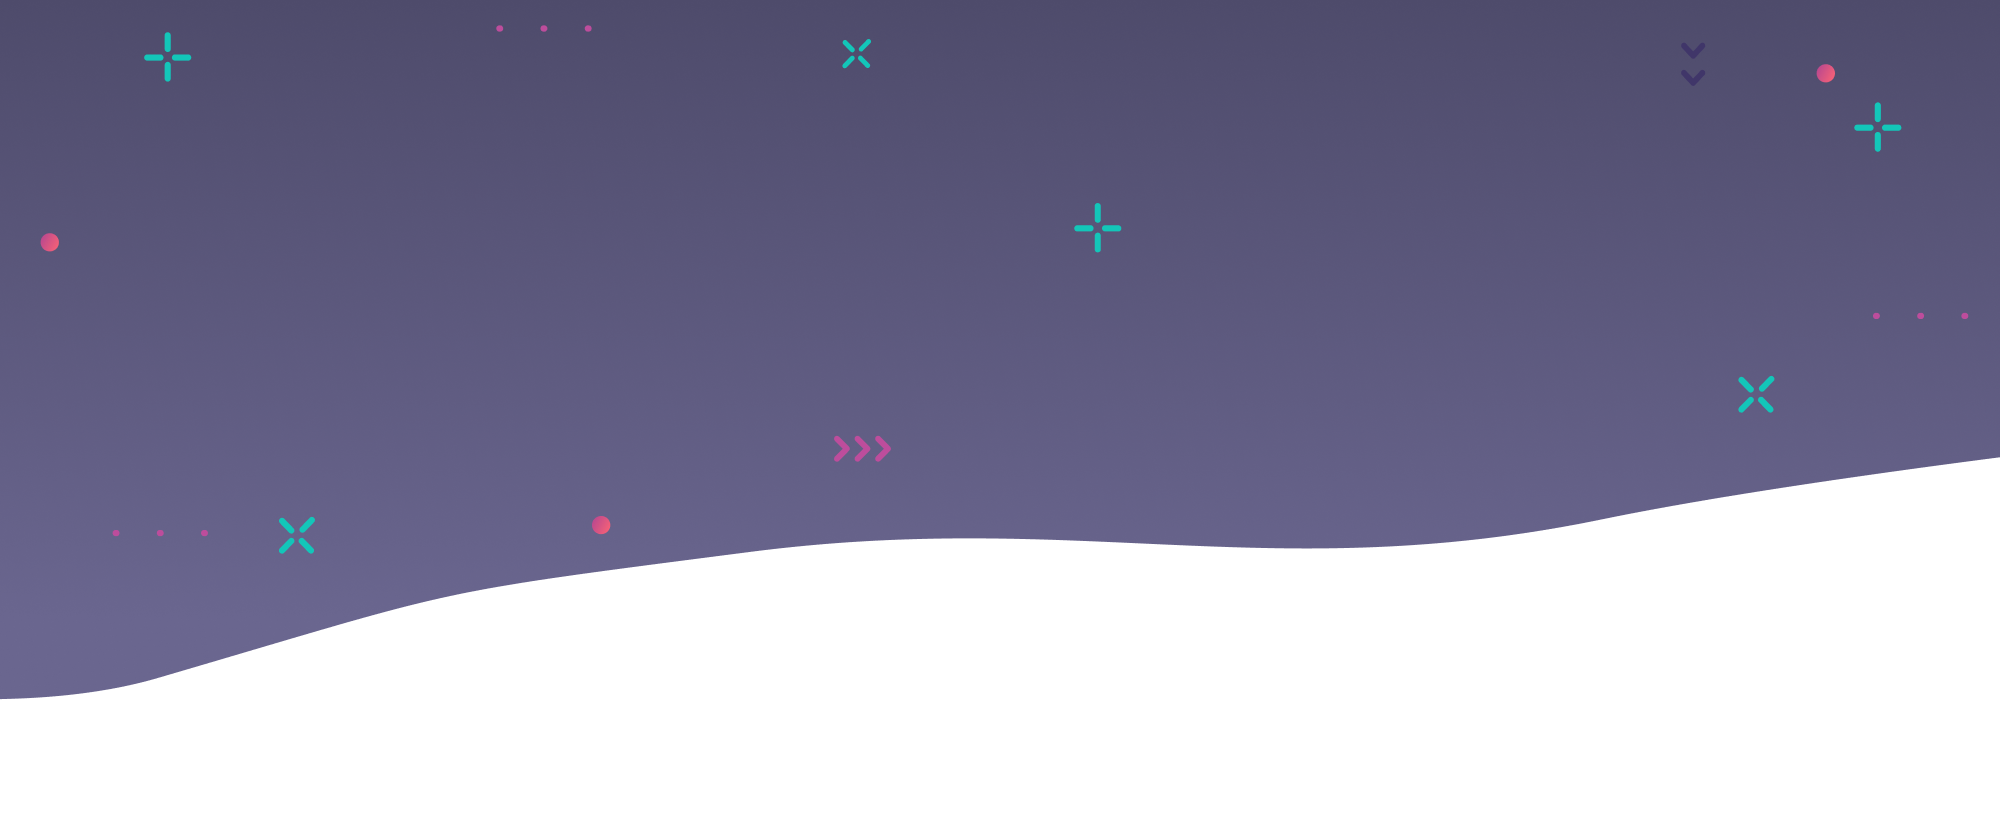
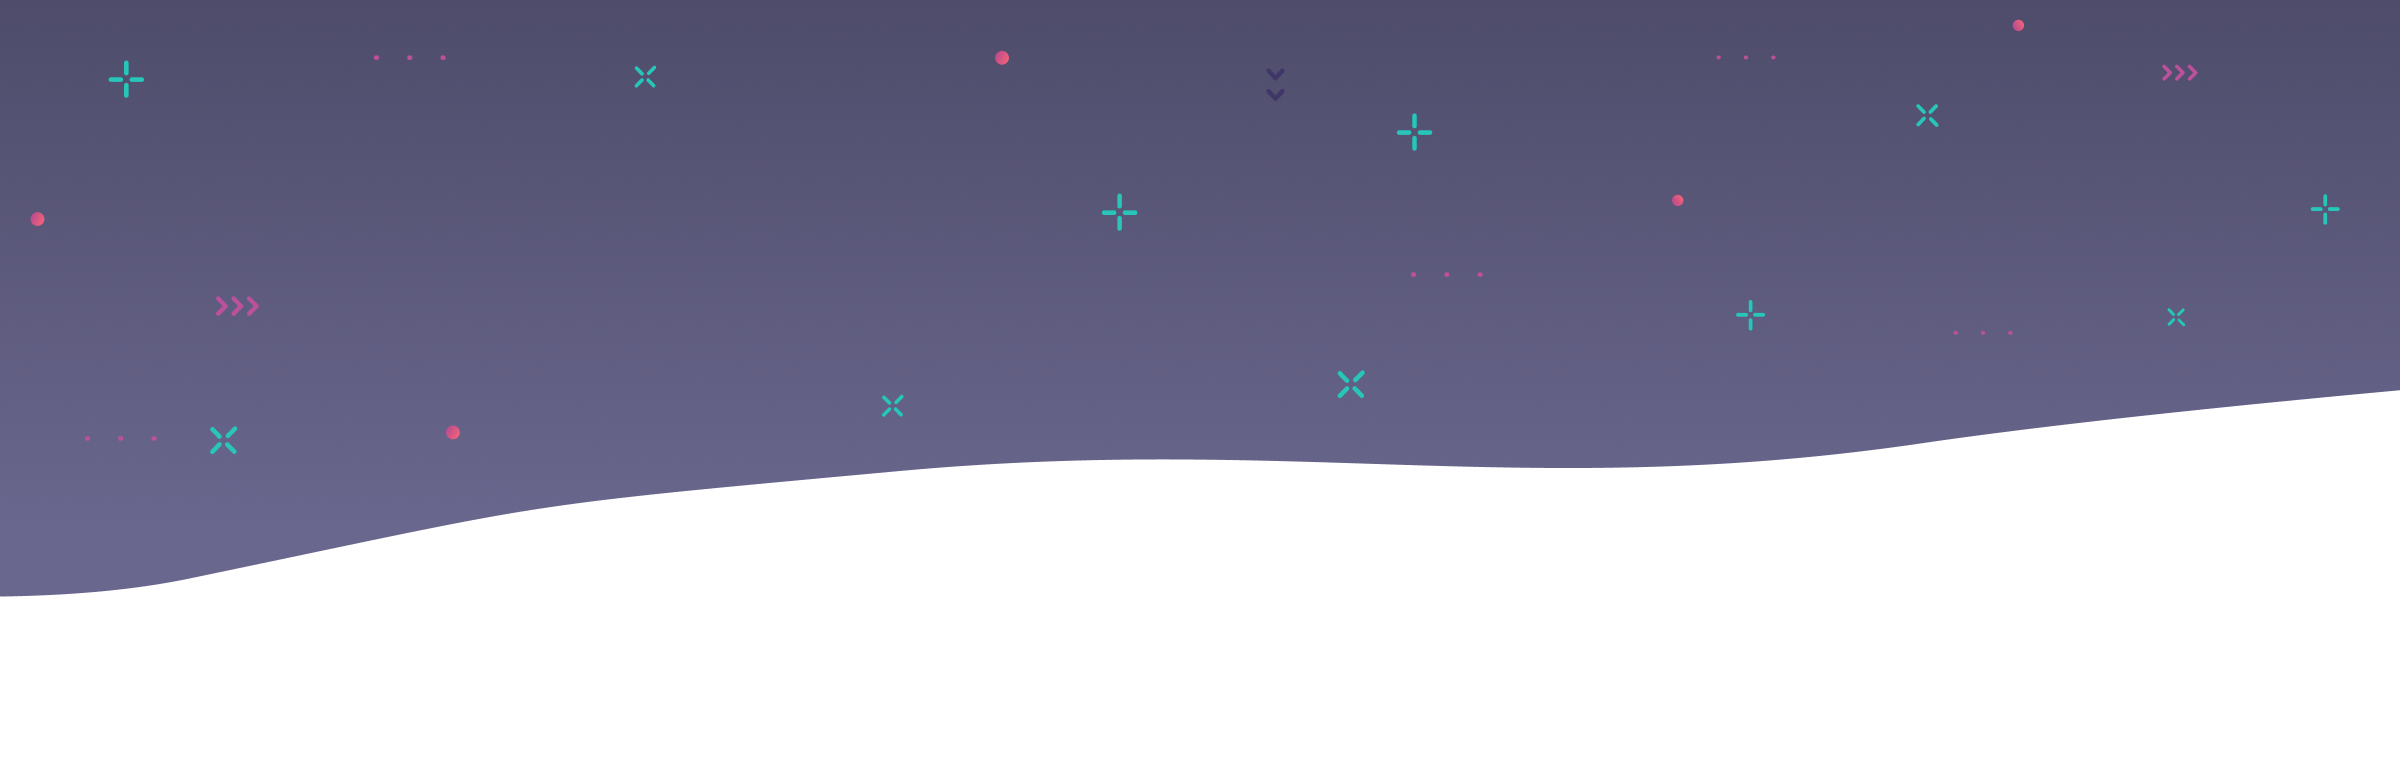
background first pass

diff --git a/src/components/Home/SectionOne.js b/src/components/Home/SectionOne.js
@@ -3,6 +3,9 @@ import styled, { css } from 'styled-components';
 
 import ServiceProviders from '../../images/sectionOne.svg';
 
+// import background from '../../images/homepageCurves/sectionOne.png';
+import background from '../../images/homepageCurves/blobOne.png';
+
 import { breakpoints as bp } from '../../styling/index';
 
 const Container = styled.div`
@@ -13,6 +16,7 @@ const Container = styled.div`
    height: 300px;
    padding-top: 100px;
    text-align: center;
+   z-index: 0;
 
    ${bp.sm`
       text-align: left;
@@ -29,6 +33,20 @@ const Container = styled.div`
       font-size: 16px;
    }
 `;
+
+const Background = styled.div`
+background-color: rgba(255,255,255,0.0);
+    top: 752px;
+    height: 756px;
+    width: 916px;
+    position: absolute;
+    margin: 0;
+    left: calc(0.01% - 406px);
+    -ms-transform: rotate(3deg);
+    -webkit-transform: rotate(3deg);
+    transform: rotate(3deg);
+    z-index: -1;
+`
 
 const Content = styled.div`
    display: flex;
@@ -59,6 +77,9 @@ padding-left: ${props => props.left ? '10px' : '0'};
 const SectionOne = () => {
    return (
       <Container>
+         <Background>
+            <img src={background} alt="22seven Service Providers"/>
+         </Background>
          <Content>
             <Column right>
                <img src={ServiceProviders} alt="22seven Service Providers"/>

diff --git a/src/components/Home/SectionThree.js b/src/components/Home/SectionThree.js
@@ -2,6 +2,7 @@ import React from 'react';
 import styled, { css } from 'styled-components';
 
 import temp from '../../images/sectionThree.svg';
+import background from '../../images/homepageCurves/blobFour.png';
 import { breakpoints as bp } from '../../styling/index';
 
 const Container = styled.div`
@@ -12,6 +13,8 @@ const Container = styled.div`
    min-height: 300px;
    /* margin-top: 100px; */
    text-align: center;
+   z-index: 1;
+
 
 ${bp.sm`
    text-align: left;
@@ -41,6 +44,21 @@ const Content = styled.div`
    `}
 `
 
+const Background = styled.div`
+   background-color: rgba(255,255,255,0.0);
+    top: 1637px;
+    height: 813px;
+    width: 1116px;
+    position: absolute;
+    margin: 0;
+    left: calc(0.00% - 634px);
+    -ms-transform: rotate(0deg);
+    -webkit-transform: rotate(0deg);
+    transform: rotate(0deg);
+    opacity: 0.72;
+    z-index: -1;
+`
+
 const Column = styled.div`
 align-self:center;
 padding-right: ${props => props.right ? '50px' : '0'};
@@ -50,6 +68,9 @@ padding-left: ${props => props.left ? '10px' : '0'};
 const SectionThree = () => {
    return (
       <Container>
+         <Background>
+            <img src={background} alt="22seven Service Providers"/>
+         </Background>
          <Content>
          <Column right>
             <img src={temp} alt="Nudges"/>

diff --git a/src/components/Home/SectionTwo.js b/src/components/Home/SectionTwo.js
@@ -2,6 +2,8 @@ import React from 'react';
 import styled, { css } from 'styled-components';
 
 import personalisedBudget from '../../images/public-section-2---right.svg';
+
+import background from '../../images/homepageCurves/blobTwo.png';
 import { breakpoints as bp } from '../../styling/index';
 
 const Container = styled.div`
@@ -10,8 +12,7 @@ const Container = styled.div`
    font-family: 'CircularStd';
    color: #4e4b6b;
    min-height: 300px;
-   margin-top: 100px;
-   text-align: center;
+   z-index: 1;   
 
 
 
@@ -46,6 +47,17 @@ const Content = styled.div`
    `}
 `
 
+const Background = styled.div`
+background-color: rgba(255,255,255,0.0);
+    right: calc(0.01% - 491px);
+    top: 1037px;
+    height: 1010px;
+    width: 818px;
+    position: absolute;
+    margin: 0;
+    z-index: -1;
+`
+
 const Column = styled.div`
 align-self:center;
 padding-right: ${props => props.right ? '50px' : '0'};
@@ -60,6 +72,9 @@ ${bp.sm(css`
 const SectionTwo = () => {
    return (
       <Container>
+         <Background>
+            <img src={background} alt="22seven Service Providers"/>
+         </Background>
          <Content>
             <Column>
                <h2>Get a personalised budget,<br/>automatically.</h2>

diff --git a/src/components/Home/Privacy.js b/src/components/Home/Privacy.js
@@ -5,6 +5,7 @@ import umbrella from '../../images/umbrella.svg';
 import oldmutual from '../../images/oldmutual.svg';
 import lock from '../../images/lock.svg';
 
+import background from '../../images/homepageCurves/blobFive.png';
 import { breakpoints as bp } from '../../styling/index';
 
 const Container = styled.div`
@@ -13,6 +14,7 @@ const Container = styled.div`
    font-family: 'CircularStd';
    color: #4e4b6b;
    text-align: center;
+   z-index: 1;
 
    ${bp.sm`
    margin-top: 190px;
@@ -103,9 +105,26 @@ const SignUpBtn = styled.a`
    }
 `
 
+const Background = styled.div`
+background-color: rgba(255,255,255,0.0);
+    top: 3368px;
+    height: 531px;
+    width: 1771px;
+    position: absolute;
+    margin: 0;
+    left: calc(-2.60% - 259px);
+    -ms-transform: rotate(0deg);
+    -webkit-transform: rotate(0deg);
+    transform: rotate(0deg);
+    z-index: -1;
+`
+
 const Privacy = () => {
    return (
    <Container>
+         <Background>
+            <img src={background} alt="22seven Service Providers"/>
+         </Background>
       <Content>
             <Lock src={lock} alt="lock" />
             <h2>Your information is secure. And it belongs to you.</h2>

diff --git a/src/components/Home/Svens.js b/src/components/Home/Svens.js
@@ -4,6 +4,7 @@ import svens from '../../images/svens.png';
 
 import email from '../../images/email.svg'
 import phone from '../../images/phone.svg'
+import background from '../../images/homepageCurves/blobSix.svg';
 import { breakpoints as bp } from '../../styling/index';
 
 const Container = styled.div`
@@ -16,6 +17,7 @@ const Container = styled.div`
    font-weight: 300;
    text-align: center;
    padding-top:100px;
+   z-index: 1;
 
 `
 const Content = styled.div`
@@ -60,9 +62,23 @@ a {
 }
 `
 
+const Background = styled.div`
+    top: 4089px;
+    height: 1030px;
+    width: 2399px;
+    position: absolute;
+    margin: 0;
+    left: calc(0.01% - 750px);
+    transform: rotate(0deg);
+    z-index: -1;
+`
+
 const Svens = () => {
    return (
       <Container>
+         <Background>
+            <img src={background} alt="22seven Service Providers"/>
+         </Background>
          <Content>
             <SvenTeam src={svens} alt="Svens"/>
             <h2>Get really good support from real, live people.</h2>

diff --git a/src/components/Home/SectionFour.js b/src/components/Home/SectionFour.js
@@ -3,7 +3,9 @@ import styled, { css } from 'styled-components';
 import InvestPromo from './InvestPromo';
 
 import personalisedBudget from '../../images/public-section-2---right.svg';
+
 import { breakpoints as bp } from '../../styling/index';
+
 
 const Container = styled.div`
    display: flex;
@@ -12,8 +14,8 @@ const Container = styled.div`
    text-align: right;
    color: #4e4b6b;
    min-height: 300px;
-   /* padding-top: 100px; */
    text-align: center;
+   z-index: 1;   
 
 ${bp.sm`
    text-align: right;
@@ -44,6 +46,8 @@ const Content = styled.div`
    
 `
 
+
+
 const Column = styled.div`
 align-self:center;
 padding-right: ${props => props.right ? '50px' : '0'};
@@ -68,10 +72,9 @@ const SectionFour = () => {
             <img src={personalisedBudget} alt="" />
             </Column>
          </Content>
-       
       </Container> 
         <InvestPromo />
-        </>
+     </>
    )
 }
 

diff --git a/src/components/Home/HowItWorks.js b/src/components/Home/HowItWorks.js
@@ -5,6 +5,7 @@ import { breakpoints as bp } from '../../styling/index';
 
 const Container = styled.div`
    display: flex;
+   position: relative;
    flex-direction: column;
    justify-content: center;
    align-items: center;
@@ -12,7 +13,7 @@ const Container = styled.div`
    color: #4e4b6b;
    text-align: center;
    padding-top:80px;
-
+   z-index: 1;
 
 
 h2 {
@@ -43,6 +44,7 @@ border-radius: 9px;
 padding: 10px 18px 0px 18px;
 margin: 20px 0;
 height: 300px; 
+background: white;
 h3 {
    font-size: 20px;
    margin: 0;

diff --git a/src/components/Home/Testimonials.js b/src/components/Home/Testimonials.js
@@ -21,7 +21,6 @@ const Container = styled.div`
    color: #4e4b6b;
    text-align: center;
    margin-top:50px;
-/* height: 300px; */
 
 ${bp.md`
 margin-top:150px;
@@ -66,6 +65,7 @@ height: 100%;
  border-radius: 5px;
  padding :20px;
  margin: 20px 0px;
+ background: #fff;
  /* min-height: 400px; */
  /* justify-content: space-evenly; */
 

diff --git a/src/components/Home/Security.js b/src/components/Home/Security.js
@@ -15,6 +15,9 @@ const Container = styled.div`
    font-family: 'CircularStd';
    color: #4e4b6b;
    text-align: center;
+   z-index: 1;
+
+
 `
 const Content = styled.div`
    display:flex;
